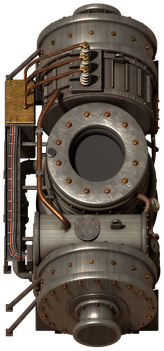
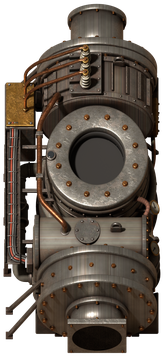
Wire the Siderane turbine's model into the game
sae-crust-turbine wears its signed-off model: per direction a plate, an
eight-frame rotor and a shadow, through derive.own_graphics into the
generator's `pictures` (own_graphics takes the target field as an optional
third argument). The rotor plays at 1/3, scaled by output: 0.336 frames a
tick at 1.8 MW, stopped when idle. The item and entity use the model's icon.

Every pipe join meets turbine metal across the pipe's full width: pipe-wide
stubs and flanges at all four ends, a square plate at the vertical south
end, the north collar cut back so its stub stands clear. Tested in a client
in all four rotations.

The status lens stays unlit glass (a generator has no state-driven layer);
the white cut sits behind TURBINE_LENS_LIT = false. TODO notes its
inherited steam-turbine wreck.

Claude-Session: https://claude.ai/code/session_01Xeqo7B8QuB77dG613cLCCC

diff --git a/concept/crust-turbine/model/crust_turbine.py b/concept/crust-turbine/model/crust_turbine.py
@@ -43,12 +43,19 @@ connections at {0, -2} north and {0, 2} south.
 Directions: "horizontal-vertical" -- vertical as modelled (the long axis north-south, the
 let-down end south), horizontal turned to face east (the let-down end west, as the plates
 draw it). A generator draws one Animation per direction, so both are this one machine
-turned; only BODY's place on the footprint differs (PLACE): the stubs' axis must land on
+turned; BODY's place on the footprint differs (PLACE, SOUTH): the stubs' axis must land on
 the pipe's line on the screen, and a point at height z draws z/2 tiles up the screen, so in
 the horizontal direction the machine sits PLACE tiles toward the near (south) edge, as
 vanilla's steam turbine draws its own. So the machine's ground plan is held to
 x in [-1.5, 1.5 - PLACE]: the far flank (-x) may reach the footprint's edge in both
 directions, the near flank (+x) stops PLACE short of it.
+
+The vertical direction's ends (amendment, 2026-10-11: north-south pipes did not meet the
+turbine): the machine sits SOUTH tiles south, so the south flange's lowest pixel is on the
+footprint edge where vanilla's pipe meets it; the north collar is cut back to its two rings
+and the north stub runs from them to the tile edge, its flange over the north pipe's end;
+both ends are section 1's spigot and flange (amendment 2). These parts are the vertical direction's own
+(section 8, `only`); the horizontal direction and the icon draw exactly what they did.
 
 What moves (spec 9): the rotor, behind the middle collar's window, ROTOR_FRAMES frames
 through one vane pitch. A generator has no working visualisations (GeneratorPictures is
@@ -112,12 +119,32 @@ ROOT = rig.turntable(rig.stretch_root())
 # ---------------------------------------------------------------- dimensions
 ZB = 0.96                            # the long axis' height: the collars, the stubs, the generator can
 R_COLLAR = 0.94                      # the end collars' rings: 1.9 tiles across, the body's girth
-R_STUB = 0.27                        # the stub's pipe
-R_END = 0.38                         # its end flange: vanilla's pipe ring (measure_ports.py)
+# The connections (amendment 2, 2026-10-11, Liam: "There is still a gap between the joints"):
+# a pipe laid at either end must meet turbine metal across its whole width, so the stub is a
+# spigot at least vanilla's pipe wide all the way from the collar to the edge -- vanilla's
+# straight pipe is 51 px across its end ring and 42 px across its body seen end-on (vertical),
+# 55 px over its ring and 49-50 px over its body seen side-on (horizontal; a round section
+# draws 2.24 R tall there) -- and its end flange stands proud of the pipe's ring, as the
+# Vacuum Furnace's ports do. R_STUB 0.41: 52.5 px end-on, 58.7 px side-on.
+R_STUB = 0.41                        # the stub: a spigot the pipe's full width
+R_END = 0.46                         # its end flange: proud of vanilla's ring (59 / 66 px)
+FACE_OUT = 0.004                     # east-west: the end flange's face a quarter pixel past the edge
 Y_END = 2.5                          # the stub's face: the middle of its end tile's edge (spec 8)
 Y_COLLAR = (1.50, 2.08)              # an end collar, inner face to outer
 # the stubs' axis on the pipe's line (vanilla's straight pipe: 1 px above the tile's centre)
 PLACE = {"vertical": 0.0, "horizontal": ZB / 2 - 1.0 / 64}
+# The vertical direction's two ends (amendment 2026-10-11, Liam: "pipes don't connect to the
+# turbine properly when going north to south"). Vanilla's vertical pipe ends on the screen
+# where its tile meets ours: the south pipe's top ring 140..158 px below the origin, the north
+# pipe's bottom ring 160..176 px above it. A stub on the long axis draws ZB/2 tiles up the
+# screen, so, as the horizontal direction moves the machine PLACE toward the camera, the
+# vertical one moves it SOUTH tiles south: the south flange's lowest pixel lands on 2.5 tiles
+# (160 px), the north flange's ring over the north pipe's end. The north collar would still
+# hide that ring (its crown draws 0.95 tiles above its outer face), so in this direction only
+# it is cut back to its two rings (Y_COLLAR_NV) and its stub runs out to the tile edge.
+R_END_V = R_END                      # the vertical direction's end flanges: the same as east-west
+SOUTH = {"vertical": (ZB - R_END_V) / 2, "horizontal": 0.0}
+Y_COLLAR_NV = (1.50, 1.75)           # the vertical direction's north collar, cut back to its rings
 X_NEAR = 1.5 - PLACE["horizontal"] - 0.03     # the near flank's limit on the ground
 X_FAR = -1.46                                 # the far flank's
 RC = (0.0, 0.0)                      # the rotor casing's centre
@@ -222,6 +249,22 @@ PARTS = {}          # group name -> [objects]; the passes toggle whole groups
 ASM = {}            # object name -> its assembly, for --collide
 HOSTS = {}          # assembly -> the assemblies it is fastened to (contact there is meant)
 _asm = ["core"]
+ONLY = {}           # object name -> the one direction it is drawn in (None: both)
+_only = [None]
+CUR = [None]        # the direction being rendered
+
+
+class only:
+    """Everything built inside is drawn in one direction alone: the vertical ends."""
+
+    def __init__(self, direction):
+        self.direction = direction
+
+    def __enter__(self):
+        _only.append(self.direction)
+
+    def __exit__(self, *a):
+        _only.pop()
 
 
 class assembly:
@@ -256,6 +299,7 @@ def _finish(obj, mat, group, bevel=0.012, smooth=False, parent=None):
     obj.parent = parent or BODY
     PARTS.setdefault(group, []).append(obj)
     ASM[obj.name] = _asm[-1]
+    ONLY[obj.name] = _only[-1]
     return obj
 
 
@@ -474,9 +518,21 @@ def foot_plate(x, y, w=0.16, bolts=True):
 # Identical at both ends (spec 8): a bright machined drum between two bolted rings, a short
 # stub out of the outer ring to a flanged end on the middle of the end tile's edge.
 
-def end(sign, name):
+def end(sign, name, y_collar=Y_COLLAR, r_end=R_END, ys=1.79, w=0.17, parts=("collar", "stub", "saddle"),
+        square=False):
+    """One end. The defaults are both ends in the horizontal direction (and the south collar
+    and saddle in the vertical); the vertical direction's own parts pass theirs."""
+    if "collar" in parts:
+        collar(sign, name, y_collar)
+    if "stub" in parts:
+        stub(sign, name, y_collar, r_end, square)
+    if "saddle" in parts:
+        saddle(sign, name, ys, w)
+
+
+def collar(sign, name, y_collar):
     with assembly(f"collar-{name}", on=("core", "skid")):
-        y0, y1 = sign * Y_COLLAR[0], sign * Y_COLLAR[1]
+        y0, y1 = sign * y_collar[0], sign * y_collar[1]
         ym = (y0 + y1) / 2
         cyl((0, ym, ZB), R_COLLAR - 0.06, abs(y1 - y0) - 0.18, "collar", verts=96, rot=AX_Y, bevel=0.015)
         for yr in (y0 + sign * 0.06, y1 - sign * 0.06):                              # the two rings
@@ -488,18 +544,32 @@ def end(sign, name):
             nrm = (math.cos(a), 0, math.sin(a))
             hexbolt((nrm[0] * (R_COLLAR - 0.06), ym, ZB + nrm[2] * (R_COLLAR - 0.06)), nrm, 0.028, 0.024)
         cyl((0, y1 + sign * 0.01, ZB), 0.48, 0.02, "steel", verts=48, rot=AX_Y, bevel=0.004)      # the boss
+
+
+def stub(sign, name, y_collar, r_end, square=False):
     with assembly(f"stub-{name}", on=(f"collar-{name}",)):
-        ya, yb = sign * (Y_COLLAR[1] + 0.02), sign * (Y_END - 0.07)
+        ya, yb = sign * (y_collar[1] + 0.02), sign * (Y_END - 0.07)
         cyl((0, (ya + yb) / 2, ZB), R_STUB, abs(yb - ya), "collar", verts=64, rot=AX_Y, bevel=0.0)
         cyl((0, ya + sign * 0.03, ZB), R_STUB + 0.08, 0.06, "collar", verts=64, rot=AX_Y, bevel=0.01)  # root flange
         bolt_circle(ya + sign * 0.06, R_STUB + 0.04, 8, sign, rb=0.02, h=0.02)
         # the end flange, its face on the tile edge: the fluid connection
-        cyl((0, sign * (Y_END - 0.04), ZB), R_END, 0.08, "collar", verts=64, rot=AX_Y, bevel=0.012)
-        bolt_circle(sign * (Y_END - 0.08), R_END - 0.05, 8, -sign, rb=0.022, h=0.02, phase=0.5)
-        cyl((0, sign * (Y_END - 0.004), ZB), R_END - 0.07, 0.008, "steel", verts=64, rot=AX_Y, bevel=0.0)
+        # side-on (east-west) the face is drawn on the edge column itself: FACE_OUT carries it a
+        # quarter pixel over, so the last column inside is solid metal, not 8% ground (the pipe's
+        # ring draws over the quarter pixel beyond)
+        out = FACE_OUT if _only[-1] == "horizontal" else 0.0
+        # square: the vertical south end's flange is square (section 9); its round one is still
+        # built, never drawn, so every part after it keeps the name it had
+        with only("never" if square else _only[-1]):
+            cyl((0, sign * (Y_END - 0.04 + out / 2), ZB), r_end, 0.08 + out, "collar", verts=64, rot=AX_Y,
+                bevel=0.012)
+        bolt_circle(sign * (Y_END - 0.08), (R_STUB + r_end) / 2, 10, -sign, rb=0.017, h=0.02, phase=0.5)
+        cyl((0, sign * (Y_END - 0.004 + out), ZB), r_end - 0.07, 0.008, "steel", verts=64, rot=AX_Y, bevel=0.0)
+
+
+def saddle(sign, name, ys, w):
     with assembly(f"saddle-{name}", on=(f"collar-{name}", "skid")):
         # a cast saddle under the collar, from the ground up round its underside
-        ys, w, rs, hw = sign * 1.79, 0.17, R_COLLAR - 0.02, 0.96
+        ys, rs, hw = sign * ys, R_COLLAR - 0.02, 0.96
         prof = [(rs * math.cos(math.pi + math.pi * k / 24), ZB + rs * math.sin(math.pi + math.pi * k / 24))
                 for k in range(25)]
 
@@ -521,8 +591,14 @@ def end(sign, name):
                 hexbolt((x, ys + s * (w - 0.06), 0.0), (0, 0, 1), 0.02, 0.018, "steel")
 
 
-end(-1, "S")             # the let-down end (south as modelled; west in the horizontal direction)
-end(+1, "N")             # the generator end
+# the let-down end (south as modelled; west in the horizontal direction); its stub, in the
+# vertical direction, is section 8's
+end(-1, "S", parts=("collar",))
+with only("horizontal"):
+    end(-1, "S", parts=("stub",))
+end(-1, "S", parts=("saddle",))
+with only("horizontal"):         # the generator end: the vertical direction's is section 8's
+    end(+1, "N")
 
 # ---------------------------------------------------------------- 2. the skids and the core
 with assembly("skid"):
@@ -810,11 +886,14 @@ with assembly("tray", on=("housing-S", "case", "terminal-far", "skid")):
 
 with assembly("braces", on=("collar-S", "collar-N", "saddle-S", "saddle-N", "skid", "gencan")):
     # struts from each end collar's far shoulder down to the ground
-    for ym in (-1.79, 1.79):
-        for dy in (-0.12, 0.12):
+    def collar_braces(ym, dys):
+        for dy in dys:
             top = (-(R_COLLAR - 0.12) * math.cos(math.radians(30)), ym + dy, ZB + (R_COLLAR - 0.12) * 0.5)
             strut(top, (X_FAR + 0.08, ym + dy * 1.6, 0.02), 0.06, 0.05)
             foot_plate(X_FAR + 0.09, ym + dy * 1.6, 0.11, bolts=dy > 0)
+    collar_braces(-1.79, (-0.12, 0.12))
+    with only("horizontal"):                 # the vertical direction's north pair: section 8
+        collar_braces(1.79, (-0.12, 0.12))
     # and short gussets down the near side of the can
     for y in (GC["y0"] + 0.04, GC["y1"] - 0.1):
         strut((0.62, y, 0.5), (X_NEAR - 0.06, y, 0.02), 0.05, 0.05)
@@ -855,6 +934,34 @@ with assembly("eyes", on=("housing-S", "gencan")):
         box((x, y, z + 0.08), (0.18, 0.05, 0.16), "body_dark", bevel=0.02)
         torus((x, y, z + 0.17), 0.06, 0.02, "steel", rot=AX_Y, seg=32)
 
+# ---------------------------------------------------------------- 8. the vertical direction's ends
+# Built last, so every part above keeps the name (and so the render noise) it had when the
+# horizontal sheets and the icon were signed off. Section 1's design, at the sizes the
+# vertical joins need (SOUTH, R_END_V, Y_COLLAR_NV): the south stub as section 1's; the
+# north collar cut back to its two bolted rings, its saddle and braces under
+# them, and its stub out from there to the tile edge.
+with only("vertical"):
+    end(-1, "S", r_end=R_END_V, parts=("stub",), square=True)
+    mid = sum(Y_COLLAR_NV) / 2
+    end(+1, "N", y_collar=Y_COLLAR_NV, r_end=R_END_V, ys=mid, w=(Y_COLLAR_NV[1] - Y_COLLAR_NV[0]) / 2 - 0.01)
+    with assembly("braces", on=("collar-S", "collar-N", "saddle-S", "saddle-N", "skid", "gencan")):
+        collar_braces(mid, (-0.07, 0.07))
+
+# ---------------------------------------------------------------- 9. the vertical south flange
+# (amendment 2, the tester's band check, 2026-10-11): seen face-on from the south, a round
+# flange's lowest rows round off (58 px wide two rows up, 22 px one row above the edge), and the
+# vanilla pipe's ring is narrower still at its top corners, so ground showed either side of the
+# join just inside the edge. The flange there is square: its lower edge is a straight line the
+# full 59 px wide on the footprint edge (160 px), the pipe's ring butting it. Built last, so
+# every other part keeps its name.
+with only("vertical"), assembly("stub-S", on=("collar-S",)):
+    # its lower edge carried a quarter pixel down (FACE_OUT, twice over, a height drawing half
+    # as far), toward the edge row, as east-west's face is carried over its last column
+    box((0, -(Y_END - 0.04), ZB - FACE_OUT), (2 * R_END_V, 0.08, 2 * R_END_V + 2 * FACE_OUT), "collar", bevel=0.01)
+    for sx in (-1, 1):                                    # its corner bolts, on the face the camera sees
+        for sz in (-1, 1):
+            hexbolt((sx * (R_END_V - 0.06), -Y_END, ZB + sz * (R_END_V - 0.06)), (0, -1, 0), 0.018, 0.016)
+
 # ---------------------------------------------------------------- passes
 
 SUN = rig.sun()
@@ -867,7 +974,8 @@ def setup(visible=(), catchers=(), holdouts=(), ground=False):
     """Per pass: which groups the camera sees, catch shadow on, or cut out."""
     for g, objs in PARTS.items():
         for o in objs:
-            o.hide_render = g not in visible and g not in catchers and g not in holdouts
+            o.hide_render = (g not in visible and g not in catchers and g not in holdouts) \
+                or ONLY.get(o.name) not in (None, CUR[0])
             o.is_shadow_catcher = g in catchers
             o.is_holdout = g in holdouts
             o.visible_camera = True
@@ -927,37 +1035,40 @@ if COLLIDE:
             ev.to_mesh_clear()
         return BVHTree.FromPolygons(verts, polys) if polys else None
 
-    fixed = [o for g, objs in PARTS.items() if g != "rotor" for o in objs]
-    by_asm = {}
-    for o in fixed:
-        by_asm.setdefault(ASM[o.name], []).append(o)
-    trees = {a: tree(objs) for a, objs in by_asm.items()}
-
     def meant(a, b):
         return a == b or b in HOSTS.get(a, ()) or a in HOSTS.get(b, ())
-    clashes = []
-    names = sorted(trees)
-    for i, a in enumerate(names):
-        for b in names[i + 1:]:
-            if meant(a, b) or trees[a] is None or trees[b] is None:
-                continue
-            hits = trees[a].overlap(trees[b])
-            if hits:
-                clashes.append((a, b, len(hits)))
-    for a, b, n in clashes:
-        print(f"COLLIDE {a} x {b}: {n} face pairs")
-    rotor_hits = {}
-    for f in range(ROTOR_FRAMES):
-        pose(f)
+    for cd in ("horizontal", "vertical"):    # the two directions' ends are their own parts
+        pose(0)
         bpy.context.view_layer.update()
         dg = bpy.context.evaluated_depsgraph_get()
-        rt = tree(PARTS["rotor"])
-        for a in names:
-            if trees[a] is not None and rt.overlap(trees[a]):
-                rotor_hits.setdefault(a, []).append(f)
-    for a, fs in rotor_hits.items():
-        print(f"COLLIDE rotor x {a}: frames {fs}")
-    print(f"COLLIDE assemblies {len(names)}, fixed clashes {len(clashes)}, rotor clashes {len(rotor_hits)}")
+        fixed = [o for g, objs in PARTS.items() if g != "rotor" for o in objs if ONLY.get(o.name) in (None, cd)]
+        by_asm = {}
+        for o in fixed:
+            by_asm.setdefault(ASM[o.name], []).append(o)
+        trees = {a: tree(objs) for a, objs in by_asm.items()}
+        clashes = []
+        names = sorted(trees)
+        for i, a in enumerate(names):
+            for b in names[i + 1:]:
+                if meant(a, b) or trees[a] is None or trees[b] is None:
+                    continue
+                hits = trees[a].overlap(trees[b])
+                if hits:
+                    clashes.append((a, b, len(hits)))
+        for a, b, n in clashes:
+            print(f"COLLIDE {cd} {a} x {b}: {n} face pairs")
+        rotor_hits = {}
+        for f in range(ROTOR_FRAMES):
+            pose(f)
+            bpy.context.view_layer.update()
+            dg = bpy.context.evaluated_depsgraph_get()
+            rt = tree(PARTS["rotor"])
+            for a in names:
+                if trees[a] is not None and rt.overlap(trees[a]):
+                    rotor_hits.setdefault(a, []).append(f)
+        for a, fs in rotor_hits.items():
+            print(f"COLLIDE {cd} rotor x {a}: frames {fs}")
+        print(f"COLLIDE {cd} assemblies {len(names)}, fixed clashes {len(clashes)}, rotor clashes {len(rotor_hits)}")
     sys.exit(0)
 
 if ICON:
@@ -965,9 +1076,11 @@ if ICON:
     sc.cycles.samples = 128
     ROOT.rotation_euler.z = -math.pi / 2                 # horizontal, as the item is held
     BODY.location.x = PLACE["horizontal"]
+    CUR[0] = "horizontal"
     cam = rig.camera(1024, 1024, ss=1)
     setup(visible=("static", "lens", "rotor"))
-    icon_rig.frame(cam, [o for g in ("static", "lens", "rotor") for o in PARTS[g]], 1024, margin=8)
+    icon_rig.frame(cam, [o for g in ("static", "lens", "rotor") for o in PARTS[g]
+                         if ONLY.get(o.name) in (None, "horizontal")], 1024, margin=8)
     rig.render(f"{OUT_DIR}/icon.png")
     sys.exit(0)
 
@@ -999,7 +1112,8 @@ if FLAT or IDLE:
 for d in contract.each_direction(ROOT, DECL["directions"]):
     def path(stem, d=d):
         return f"{OUT_DIR}/{contract.named(stem, d)}.png"
-    BODY.location.x = PLACE[d]
+    BODY.location.x, BODY.location.y = PLACE[d], -SOUTH[d]
+    CUR[0] = d
     sc.render.use_border = False
     pose(0)
     # the plate leaves the rotor out: the engine draws it, frame by frame, in its window
@@ -1021,7 +1135,7 @@ for d in contract.each_direction(ROOT, DECL["directions"]):
     rig.render(path("lens"))
     lens_cut(False)
     # the rotor: its window only, its shadow caught on the bore and the well under it
-    east, north = (0.0, 0.0) if d == "vertical" else (0.0, -PLACE[d])
+    east, north = (0.0, -SOUTH[d]) if d == "vertical" else (0.0, -PLACE[d])
     sy = -(north + Z_ROTOR / 2)
     window(east - 0.62, east + 0.62, sy - 0.5, sy + 0.5)
     for f in range(ROT["frames"]):
@@ -1030,4 +1144,5 @@ for d in contract.each_direction(ROOT, DECL["directions"]):
         rig.render(path(contract.frame(ROT["name"], f)))
     pose(0)
     sc.render.use_border = False
-BODY.location.x = 0.0
+BODY.location.x, BODY.location.y = 0.0, 0.0
+CUR[0] = None

diff --git a/TODO.md b/TODO.md
@@ -83,9 +83,14 @@ Liam, then wired in. Task specs are in `.claude/tasks/` (local).
 
 ## Art
 
-- **The Crust Turbine and the crust vent tile still wear vanilla art**
+- **The crust vent tile still wears vanilla art**
   (`derive.placeholder_art` in `prototypes/core/crust-tap.lua`). The data stage
   lists every survivor at the end of each load.
+- **The Siderane turbine dies as a steam turbine.** `sae-crust-turbine` still
+  inherits `corpse = "steam-turbine-remnants"` and
+  `dying_explosion = "steam-turbine-explosion"`, so its wreck is vanilla's; it
+  needs its own remnants rendered from its model
+  (`prototypes/core/crust-tap.lua`).
 - **The Crust Tap has no scorched-ground layer**, which its spec (§3.3) asks
   for as its own layer, the way vanilla does `mining_drill_scorch_mark`.
 - **The space connection** `sae-shattered-planet-core` has no icon of its own,
